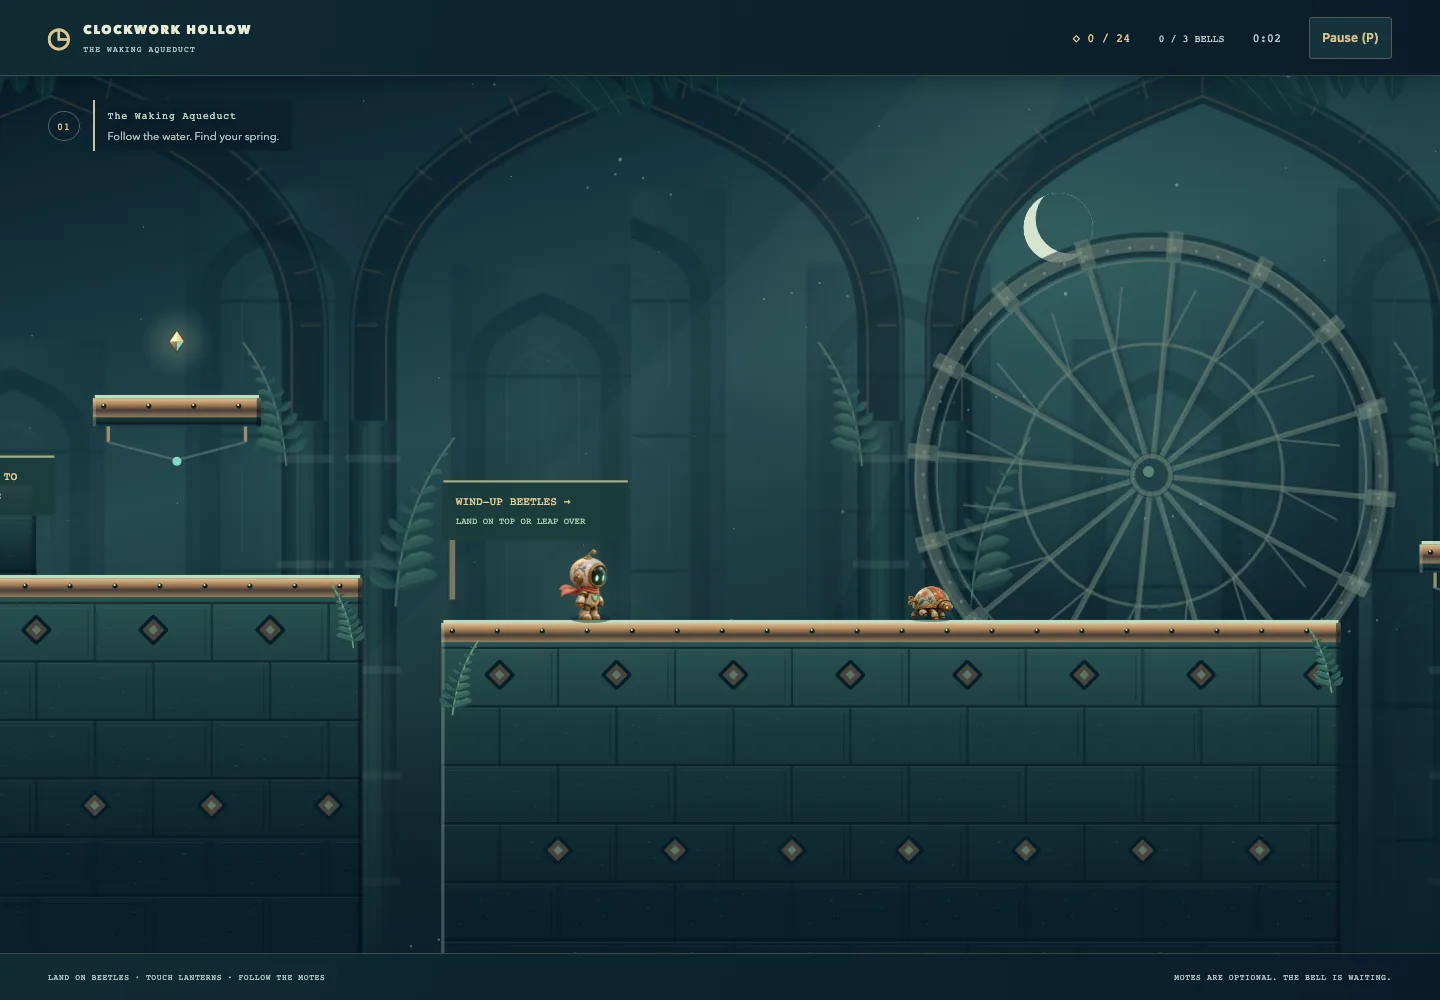
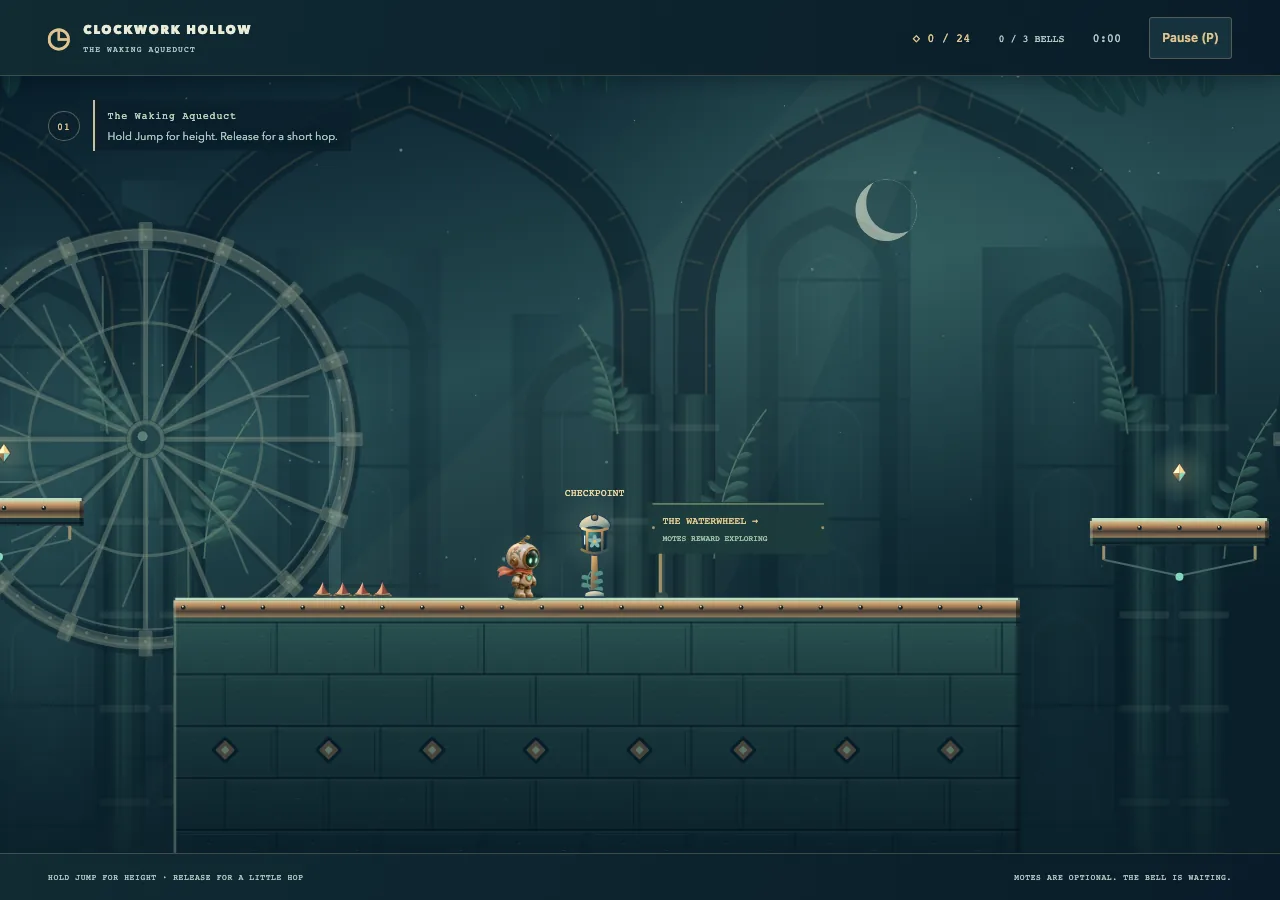
fix: polish Clockwork Hollow signs and Quality hazards (#74)

diff --git a/src/games/clockwork-hollow/presentation.ts b/src/games/clockwork-hollow/presentation.ts
@@ -172,12 +172,18 @@ export function createPresentation(surface: HTMLElement) {
     else circle(p.x + m.width/2, p.y + m.height/2, 16, theme.brass);
   }
 
-  function sign(x: number, y: number, title: string, detail: string) {
-    line(x, y, x, y + 72, '#7d7860', 5);
-    ctx.fillStyle = theme === themes.assets ? '#fff0cf' : '#1d3b3bf0'; ctx.beginPath(); ctx.roundRect(x - 9, y - 33, 166, 52, 4); ctx.fill();
-    line(x - 8, y - 33, x + 156, y - 33, '#a6ad7d', 2);
-    ctx.font = '10px monospace'; ctx.fillStyle = theme === themes.assets ? '#233d55' : '#e6cd93'; ctx.fillText(title, x + 3, y - 12);
-    ctx.font = '8px monospace'; ctx.fillStyle = theme === themes.assets ? '#79535b' : '#a7c6ab'; ctx.fillText(detail, x + 3, y + 5);
+  function sign(x: number, groundY: number, title: string, detail: string) {
+    const top = groundY - 96;
+    // A narrow, grounded post and recessed plaque read as scenery, not a ledge.
+    line(x, top + 40, x, groundY, '#344a46', 7);
+    line(x - 1, top + 40, x - 1, groundY, '#a39267', 3);
+    ctx.fillStyle = '#344a46'; ctx.fillRect(x - 6, groundY - 5, 12, 5);
+    const fill = theme === themes.assets ? '#fff0cf' : '#1d3b3bf0';
+    ctx.fillStyle = fill; ctx.beginPath(); ctx.roundRect(x - 14, top, 182, 52, 4); ctx.fill();
+    line(x - 9, top + 2, x + 163, top + 2, '#a6ad7d', 1);
+    for (const pin of [x - 8, x + 162]) circle(pin, top + 26, 1.5, '#a39267');
+    ctx.font = '10px monospace'; ctx.fillStyle = theme === themes.assets ? '#233d55' : '#e6cd93'; ctx.fillText(title, x + 1, top + 22);
+    ctx.font = '8px monospace'; ctx.fillStyle = theme === themes.assets ? '#79535b' : '#a7c6ab'; ctx.fillText(detail, x + 1, top + 39);
   }
   return {
     prepare: baseline.prepare,
@@ -240,12 +246,13 @@ export function createPresentation(surface: HTMLElement) {
         gear(x, y, 110, motion.matches ? 0 : run.elapsed * 0.06 * (i % 2 ? -1 : 1), '#4a665166');
         circle(x, y, 12, '#b7dca188'); glow(x, y, 130, '#a2ddb315');
       }
+      for (const item of run.level.signs) if (item.x > view.x - 180 && item.x < view.x + view.width + 14) sign(item.x, item.groundY, item.title, item.detail);
       run.level.solids.forEach((s, i) => { if (s.x + s.w >= view.x - 20 && s.x <= view.x + view.width + 20) stone(s, i, run.level, view); });
-      for (const item of run.level.signs) if (item.x > view.x - 180 && item.x < view.x + view.width) sign(item.x, item.y, item.title, item.detail);
       run.level.checkpoints.forEach((point, i) => {
         const x = point.x + 13, y = point.y, lit = run.checkpoint >= i;
         glow(x, y - 25, lit ? 105 : 45, lit ? '#a6ffcc55' : '#f4d8a922');
-        sprites()?.object(lit ? 'savedLantern' : 'lantern', x - 40, y + m.height - 100, 80, 100);
+        // All lantern sheets have their visible sole at source y=156 of 160.
+        sprites()?.object(lit ? 'savedLantern' : 'lantern', x - 40, y + m.height - 97.5, 80, 100);
         ctx.font = '10px monospace'; ctx.textAlign = 'center'; ctx.fillStyle = lit ? '#b9ffcf' : '#edd9a4';
         ctx.fillText(lit ? 'SAVED' : 'CHECKPOINT', x, y - 62); ctx.textAlign = 'left';
       });
@@ -289,14 +296,15 @@ export function createPresentation(surface: HTMLElement) {
       });
       for (const s of run.level.hazards) {
         if (s.x + s.w < view.x || s.x > view.x + view.width) continue;
-        sprites()?.object('thorns', s.x, s.y, s.w, s.h);
+        sprites()?.thorns(s);
       }
       const goal = run.level.goal, gx = goal.x + goal.w / 2;
       const objectArt = sprites();
       if (objectArt) {
         objectArt.object('gate', gx - 76, goal.y + goal.h - 190, 152, 190);
         glow(gx, goal.y + 22, ['victory', 'interlude'].includes(run.status) ? 220 : 120, '#f6ce7f44');
-        ctx.save(); ctx.translate(gx, goal.y - 30);
+        // Hang from the arch's crown instead of leaving a gap above the chain.
+        ctx.save(); ctx.translate(gx, goal.y + goal.h - 181);
         if (['victory', 'interlude'].includes(run.status) && !motion.matches) ctx.rotate(Math.sin(cosmeticTime * 5) * .18);
         objectArt.object('bell', -41, 0, 82, 102); ctx.restore();
       }

diff --git a/src/games/clockwork-hollow/content.ts b/src/games/clockwork-hollow/content.ts
@@ -4,7 +4,8 @@ export interface Mote { readonly x: number; readonly y: number }
 export interface Patrol extends Rect { readonly to: number; readonly speed: number }
 export interface Vent extends Rect { readonly period: number; readonly offset: number }
 export interface Checkpoint { readonly x: number; readonly y: number; readonly name: string }
-export interface Sign { readonly x: number; readonly y: number; readonly title: string; readonly detail: string }
+/** Posts end at an authored landing surface; signs are background decoration. */
+export interface Sign { readonly x: number; readonly groundY: number; readonly title: string; readonly detail: string }
 export type District = 'aqueduct' | 'emberworks' | 'belfry';
 export interface Level {
   readonly id: string;
@@ -34,10 +35,10 @@ export const hollow: Level = {
   checkpoints: [{ x: 3690, y: 570, name: 'Moss lantern' }, { x: 8100, y: 610, name: 'Waterwheel rest' }],
   patrols: [{ x: 4490, y: 624, w: 36, h: 26, to: 4800, speed: 62 }, { x: 10300, y: 624, w: 36, h: 26, to: 10600, speed: 76 }],
   vents: [],
-  signs: [{ x: 205, y: 618, title: 'THE BELL IS EAST →', detail: 'HOLD JUMP FOR HEIGHT' },
-    { x: 3750, y: 538, title: 'A LIGHT TO RETURN TO', detail: 'TOUCH LANTERNS TO SAVE' },
-    { x: 4260, y: 560, title: 'WIND-UP BEETLES →', detail: 'LAND ON TOP OR LEAP OVER' },
-    { x: 8150, y: 578, title: 'THE WATERWHEEL →', detail: 'MOTES REWARD EXPLORING' }],
+  signs: [{ x: 205, groundY: 690, title: 'THE BELL IS EAST →', detail: 'HOLD JUMP FOR HEIGHT' },
+    { x: 3910, groundY: 610, title: 'A LIGHT TO RETURN TO', detail: 'TOUCH LANTERNS TO SAVE' },
+    { x: 4290, groundY: 650, title: 'WIND-UP BEETLES →', detail: 'LAND ON TOP OR LEAP OVER' },
+    { x: 8180, groundY: 650, title: 'THE WATERWHEEL →', detail: 'MOTES REWARD EXPLORING' }],
   width: 12500, height: 960,
   start: { x: 110, y: 650 },
   solids: [
@@ -99,9 +100,9 @@ export const furnace: Level = {
   name: 'The Emberworks', id: 'emberworks', environment: 'emberworks', subtitle: 'Read the pressure. Cross between breaths.', width: 13600, height: 1000,
   start: { x: 110, y: 650 },
   checkpoints: [{ x: 4350, y: 610, name: 'Foundry lantern' }, { x: 9000, y: 570, name: 'Pressure room' }],
-  signs: [{ x: 230, y: 618, title: 'THE EMBERWORKS →', detail: 'VENTS GLOW BEFORE FIRING' },
-    { x: 4370, y: 578, title: 'BREATHE. THEN CROSS.', detail: 'WAIT FOR THE BLUE LIGHT' },
-    { x: 9030, y: 538, title: 'THE PRESSURE ROOM →', detail: 'ONE CLEAN JUMP AT A TIME' }],
+  signs: [{ x: 230, groundY: 690, title: 'THE EMBERWORKS →', detail: 'VENTS GLOW BEFORE FIRING' },
+    { x: 4120, groundY: 650, title: 'BREATHE. THEN CROSS.', detail: 'WAIT FOR THE BLUE LIGHT' },
+    { x: 9070, groundY: 610, title: 'THE PRESSURE ROOM →', detail: 'ONE CLEAN JUMP AT A TIME' }],
   solids: [
     { x: 0, y: 690, w: 1100, h: 370 }, { x: 1200, y: 610, w: 180, h: 28 },
     { x: 1480, y: 530, w: 180, h: 28 }, { x: 1770, y: 650, w: 1050, h: 410 },
@@ -143,9 +144,9 @@ export const belfry: Level = {
   name: 'The Starlit Belfry', id: 'belfry', environment: 'belfry', subtitle: 'One last climb. Let the hollow sing.', width: 14400, height: 1100,
   start: { x: 110, y: 650 },
   checkpoints: [{ x: 4570, y: 570, name: 'Moon lantern' }, { x: 9400, y: 530, name: 'Bellkeeper rest' }],
-  signs: [{ x: 210, y: 618, title: 'THE STARLIT BELFRY →', detail: 'EVERY SPRING HAS A SONG' },
-    { x: 4620, y: 538, title: 'ABOVE THE CANOPY →', detail: 'WATCH THE LANDING EDGE' },
-    { x: 9440, y: 498, title: 'THE LAST ASCENT →', detail: 'THE HOLLOW IS LISTENING' }],
+  signs: [{ x: 210, groundY: 690, title: 'THE STARLIT BELFRY →', detail: 'EVERY SPRING HAS A SONG' },
+    { x: 4650, groundY: 610, title: 'ABOVE THE CANOPY →', detail: 'WATCH THE LANDING EDGE' },
+    { x: 9180, groundY: 570, title: 'THE LAST ASCENT →', detail: 'THE HOLLOW IS LISTENING' }],
   solids: [
     { x: 0, y: 690, w: 760, h: 470 }, { x: 850, y: 610, w: 160, h: 28 },
     { x: 1110, y: 530, w: 160, h: 28 }, { x: 1370, y: 450, w: 180, h: 28 },

diff --git a/src/games/clockwork-hollow/asset-presentation.ts b/src/games/clockwork-hollow/asset-presentation.ts
@@ -1,7 +1,7 @@
 import type { ImageBundle } from '../../engine/browser/images.ts';
 import type { District, Rect } from './content.ts';
 import { movement } from './content.ts';
-import { keeperFrame, objectFrames, illustratedSpriteLayout, type HollowSpriteLayout, type BellgardenSheet } from './asset-art.ts';
+import { keeperFrame, objectFrames, illustratedSpriteLayout, lumenSpriteLayout, type HollowSpriteLayout, type BellgardenSheet } from './asset-art.ts';
 import type { Player } from './game.ts';
 import type { KeeperPose } from './animation.ts';
 import type { HollowView } from './presentation.ts';
@@ -21,6 +21,15 @@ export function createBellgardenDrawing(ctx: CanvasRenderingContext2D, images: I
   }
   return {
     object,
+    thorns(s: Rect) {
+      if (layout !== lumenSpriteLayout) { object('thorns', s.x, s.y, s.w, s.h); return; }
+      const [sx, sy, sw, sh] = objectFrames.thorns;
+      // Repeat complete teeth at near-native proportions, fitting both end sockets
+      // inside the hazard instead of flattening a fixed five-tooth strip.
+      const cell = sw / 2, count = Math.max(1, Math.round(s.w / (s.h * cell / sh)));
+      const width = s.w / count;
+      for (let i = 0; i < count; i++) image('objects', [sx + i % 2 * cell, sy, cell, sh], s.x + i * width, s.y, width, s.h);
+    },
     scenery(view: HollowView, level: District, theme: HollowTheme) {
       const palette = theme.districts[level];
       const sky = ctx.createLinearGradient(0, 0, 0, view.height);

diff --git a/docs/games/clockwork-hollow/README.md b/docs/games/clockwork-hollow/README.md
@@ -30,6 +30,8 @@ Every mode uses complete keeper and beetle drawings. Quality’s AI-generated ac
 
 Quality uses Canvas 2D with shaded image assets, bevelled platform materials and cached architectural layers. A monumental waterwheel, foundry vessels and a belfry rose window distinguish the districts. Distant scenery stays quieter than landing lips, objectives and hazards. The interface uses dark mineral surfaces and brass rules.
 
+Signs stand on authored platform surfaces, in clear spaces away from lanterns, vents and jump blocks. Their posts and plaques sit behind the solid route. Lantern soles meet the landing edge, and bell chains attach to their arch crowns. Quality’s curved copper thorns repeat individually with shaded brass sockets, fitting each hazard patch without flattening a fixed strip or extending its danger bounds.
+
 ## Source ownership and customization
 
 Paths below are relative to `src/games/clockwork-hollow/`.
@@ -58,7 +60,7 @@ The camera provides minimum horizontal visibility on narrow displays, bounded ve
 
 Continuous landing lips remain visible above moss; broad beetle crowns contrast with pointed copper thorns. Pressure columns draw above scenery. Landing dust, shell impacts, lantern sparks and bell celebrations have capped, viewport-admitted particles. Reduced motion removes camera follow interpolation, particles, mote bobbing, flywheel rotation, pressure motion, keeper lean, landing compression and bell swinging. All modes use a still grounded keeper pose, while vent countdowns and physical movement stay visible.
 
-![Lumen Conservatory: the sculpted porcelain keeper and wind-up beetle beneath layered aqueduct ribs and a monumental waterwheel](quality.webp)
+![Lumen Conservatory: the sculpted porcelain keeper, copper thorns and a grounded lantern sign beneath layered aqueduct ribs and a monumental waterwheel](quality.webp)
 
 Sound uses a spring lift, soft stone/metal landing, descending unwinding damage, glass-like motes, shell clicks, filtered steam, rising lantern tones, district bells and a fuller final bell. Landing strength changes gain; only nearby vents are audible.
 

diff --git a/src/games/clockwork-hollow/art/README.md b/src/games/clockwork-hollow/art/README.md
@@ -40,7 +40,7 @@ All sheets use antialiased sampling. `bellgarden/generate.mjs` owns the SVG sour
 | `bellgarden/<district>-far.svg` | 960 × 900 for aqueduct, emberworks and belfry | Quiet silhouettes repeat horizontally at 12% camera displacement. |
 | `bellgarden/<district>-near.svg` | 960 × 900 for the same districts | Decorated arches and district props repeat at 32% camera displacement. |
 
-`asset-art.ts` owns decoded-dimension validation, object rectangles and keeper pose selection. `asset-presentation.ts` owns footprints, tiling, mirroring and scenery composition. Signs, celestial marks, vent columns and timing displays remain procedural.
+`asset-art.ts` owns decoded-dimension validation, object rectangles and keeper pose selection. `asset-presentation.ts` owns footprints, tiling, mirroring and scenery composition. Quality’s thorn frame contains two complete 64 × 56 copper teeth with brass sockets; alternate these cells across each hazard at approximately their native proportions, with the mounting rail entirely inside the authored rectangle. Lantern artwork has its visible sole at source y=156, independently of the 160-pixel cell height. Signs, celestial marks, vent columns and timing displays remain procedural. Sign `groundY` values in `content.ts` name the supporting surface; keep plaques clear of raised solids and foreground interaction cues.
 
 ## Editing and regeneration
 

diff --git a/CATALOG.md b/CATALOG.md
@@ -54,7 +54,7 @@ The portrait playfield scales uniformly and stays centered. Roll supports a seco
 
 ## Clockwork Hollow
 
-![Clockwork Hollow · Quality: the porcelain keeper and a beetle beneath cathedral arches and a waterwheel](docs/games/clockwork-hollow/quality.webp)
+![Clockwork Hollow · Quality: the porcelain keeper, copper thorns and a checkpoint beneath cathedral arches and a waterwheel](docs/games/clockwork-hollow/quality.webp)
 
 Guide a little brass keeper through **The Waking Aqueduct**, **The Emberworks** and **The Starlit Belfry**. Three authored districts progress from mossy spans to pressure-powered machinery and moonlit climbs. Leap over copper thorns, stomp wind-up beetles, read vent warnings, collect optional motes and wake all three bells. The intended first-play pace is 3–6 minutes. Responsive acceleration, variable jump height, coyote time and buffered jumps help you find a comfortable rhythm. There is no time limit.
 
